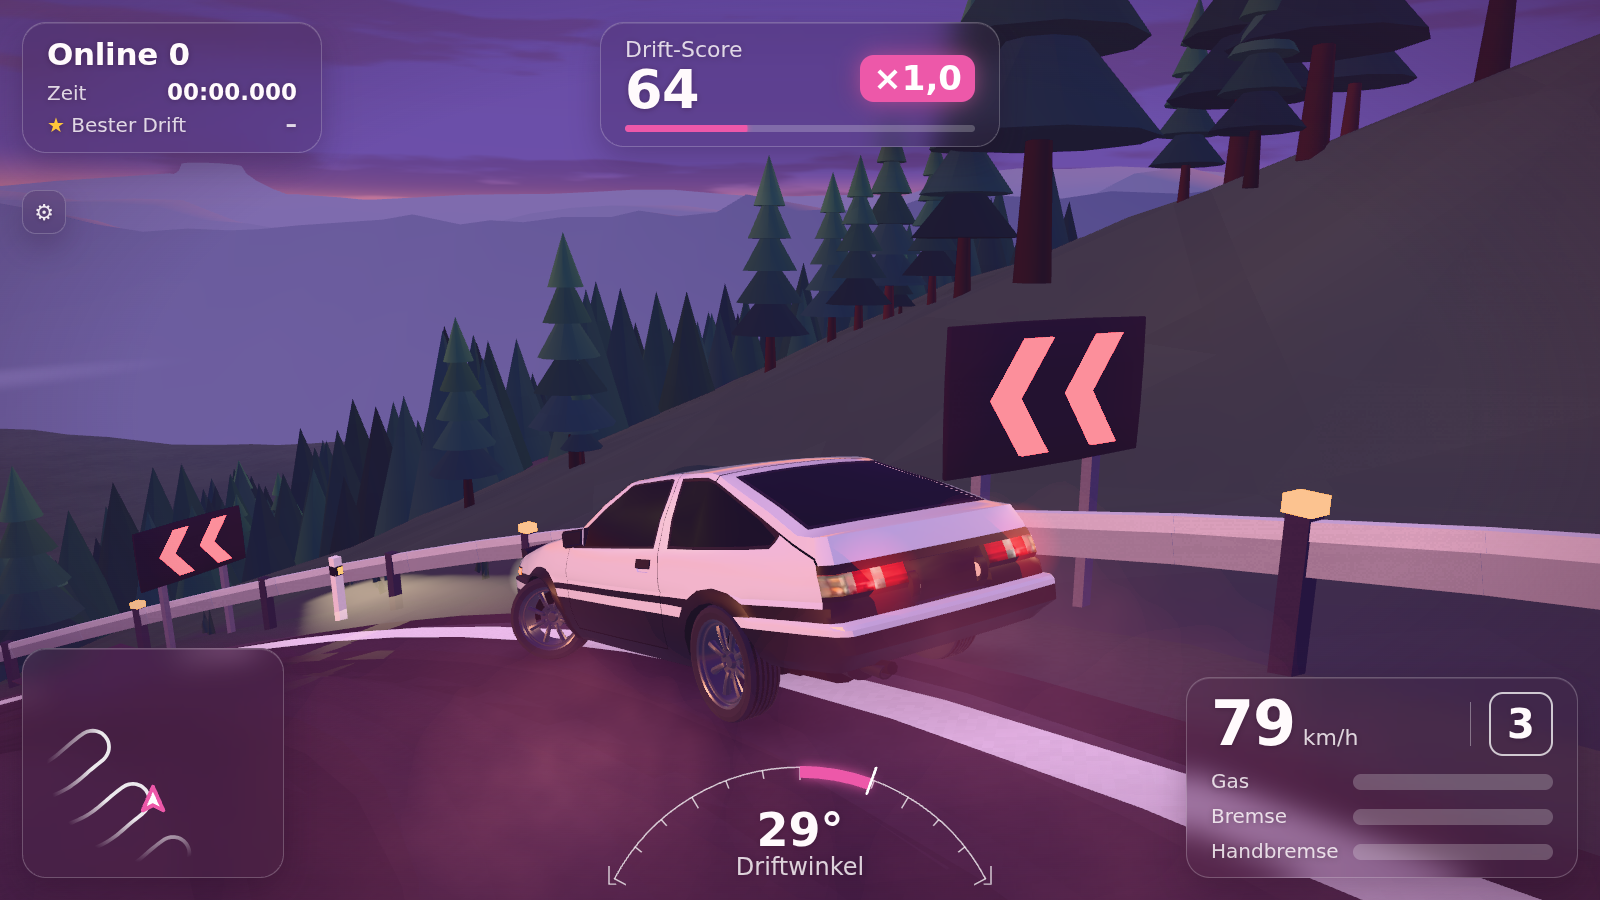
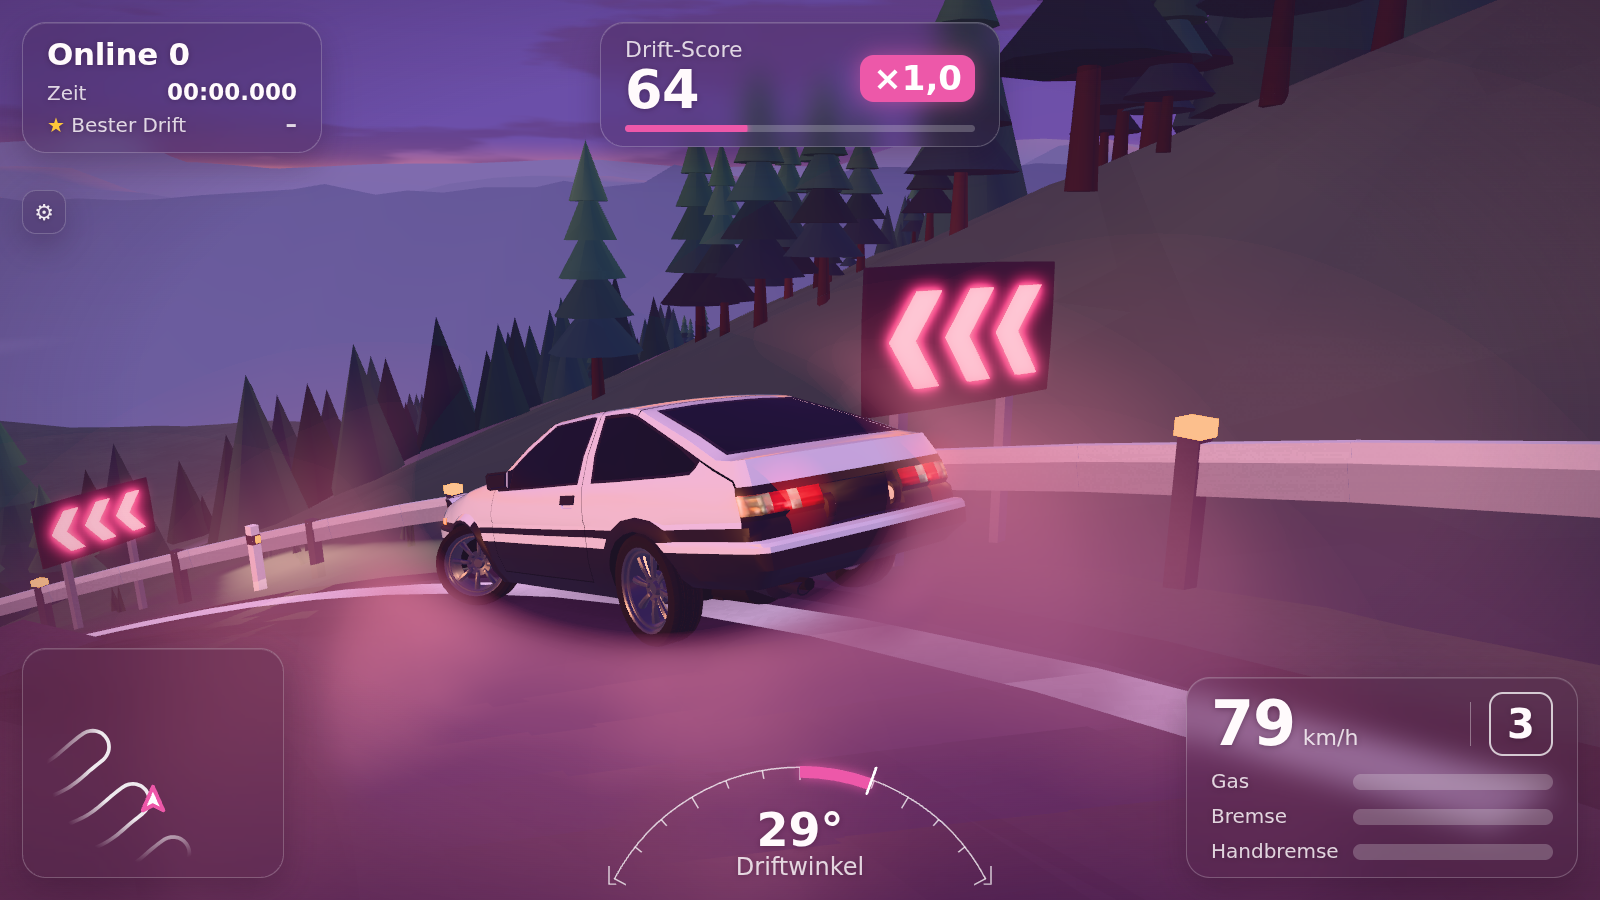
Start view (shot=platz, spawn towards the valley), plaza on the road's start height, camera measured, private-session hint in the HUD, pictures, STATE

diff --git a/game/main.js b/game/main.js
@@ -36,12 +36,12 @@ const params = new URLSearchParams(location.search);
 const de = params.get('lang') ? params.get('lang') === 'de' : navigator.language?.startsWith('de');
 const T = {
   en: { drift: 'DRIFT', score: 'Score', lost: 'Lost!', hand: 'HAND', brake: 'BRAKE', gas: 'GAS', rotate: 'Turn your phone to landscape', tip: 'Hold GAS, steer with the arrows, tap HAND to throw the tail out',
-    online: 'driving here', solo: 'Time trial', newDrift: 'new best drift', tunedMark: 'tuned', run: 'Run finished', sumTime: 'Time', sumPoints: 'Points', sumClips: 'Clipping points', sumBest: 'Best drift', clip: 'CLIP', zone: 'Zone', slip: 'Angle', best: 'Best drift', you: 'You are', race: 'Start a race', invite: '{by} starts a race on {map} ({laps} laps).', join: 'Join', no: 'No', waiting: 'Invitation sent: the race starts in a few seconds.', joined: 'You are in. Get ready.', busy: 'A race is on right now.', pause: 'The next race can start in {s} s.', getReady: 'Get ready', waitOthers: 'Waiting for the others', go: 'GO!', lap: 'Lap', finished: 'Finished', result: 'Result', dnf: 'DNF', newBest: 'new best', leave: 'Leave', backLobby: 'Back to the lobby', dropped: 'You were dropped. Tap to rejoin.', full: 'The world is full right now. Tap to try again.',
+    online: 'driving here', solo: 'Time trial', newDrift: 'new best drift', tunedMark: 'tuned', privateSession: 'Private session', run: 'Run finished', sumTime: 'Time', sumPoints: 'Points', sumClips: 'Clipping points', sumBest: 'Best drift', clip: 'CLIP', zone: 'Zone', slip: 'Angle', best: 'Best drift', you: 'You are', race: 'Start a race', invite: '{by} starts a race on {map} ({laps} laps).', join: 'Join', no: 'No', waiting: 'Invitation sent: the race starts in a few seconds.', joined: 'You are in. Get ready.', busy: 'A race is on right now.', pause: 'The next race can start in {s} s.', getReady: 'Get ready', waitOthers: 'Waiting for the others', go: 'GO!', lap: 'Lap', finished: 'Finished', result: 'Result', dnf: 'DNF', newBest: 'new best', leave: 'Leave', backLobby: 'Back to the lobby', dropped: 'You were dropped. Tap to rejoin.', full: 'The world is full right now. Tap to try again.',
     keysSoft: 'Keyboard: soft (gas and steering build up)', keysDirect: 'Keyboard: direct (all or nothing)', leverOn: 'Mouse throttle lever on (L): wheel or drag up and down; the brake resets it', leverOff: 'Mouse throttle lever off (L)', volume: 'Volume', quality: 'Graphics', camChase: 'Chase camera', camBonnet: 'Bonnet camera', camCockpit: 'Cockpit camera', padOn: 'Controller: stick steers, right trigger gas, left trigger brake, A handbrake, Y camera, X restart', padOff: 'Controller unplugged: paused', creativeOn: 'Creative mode on (K): no scores count, no damage', creativeOff: 'Creative mode off (K)', creativeBanner: 'CREATIVE: scores do not count', creativeChip: 'Creative', damageLabel: 'Damage', damageOn: 'Damage on (V)', damageOff: 'Damage off (V)', soundOn: 'Sound on (M)', soundOff: 'Sound off (M)', musicOff: 'Music: off (placeholder)', musicOn: 'Music: on (placeholder, no music yet)', chLap: 'Set a clean lap in a race or time trial', chDone: 'Challenge finished', chConfirmed: 'confirmed', chFailed: 'ended by a hit', chTitle: 'Challenge',
     feelArcade: 'Arcade', feelPro: 'Pro (fewer aids)', feelKey: 'Feel of driving (X)', tandem: 'Tandem', lead: 'Lead', chase: 'Chase', side: 'Side by side', tandemBank: 'Tandem bonus', practiceBot: 'Practice bot (B)',
     hintKeys: 'Arrows or WASD to drive, Space = handbrake, Shift = brake, R = restart, F = fullscreen' },
   de: { drift: 'DRIFT', score: 'Punkte', lost: 'Verloren!', hand: 'HAND', brake: 'BREMSE', gas: 'GAS', rotate: 'Dreh das Handy ins Querformat', tip: 'GAS halten, mit den Pfeilen lenken, HAND wirft das Heck raus',
-    online: 'fahren hier', solo: 'Zeitfahren', newDrift: 'neuer bester Drift', tunedMark: 'getunt', run: 'Lauf beendet', sumTime: 'Zeit', sumPoints: 'Punkte', sumClips: 'Clipping-Punkte', sumBest: 'Bester Drift', clip: 'CLIP', zone: 'Zone', slip: 'Winkel', best: 'Bester Drift', you: 'Du bist', race: 'Rennen starten', invite: '{by} startet ein Rennen auf {map} ({laps} Runden).', join: 'Mitfahren', no: 'Nein', waiting: 'Einladung verschickt: das Rennen startet in ein paar Sekunden.', joined: 'Du bist dabei. Mach dich bereit.', busy: 'Gerade läuft ein Rennen.', pause: 'Das nächste Rennen geht in {s} s.', getReady: 'Mach dich bereit', waitOthers: 'Warte auf die anderen', go: 'LOS!', lap: 'Runde', finished: 'Im Ziel', result: 'Ergebnis', dnf: 'Ausgeschieden', newBest: 'neue Bestzeit', leave: 'Verlassen', backLobby: 'Zurück zur Lobby', dropped: 'Du wurdest getrennt. Tippen zum Zurückkehren.', full: 'Die Welt ist gerade voll. Tippen zum Erneut-Versuchen.',
+    online: 'fahren hier', solo: 'Zeitfahren', newDrift: 'neuer bester Drift', tunedMark: 'getunt', privateSession: 'Private Runde', run: 'Lauf beendet', sumTime: 'Zeit', sumPoints: 'Punkte', sumClips: 'Clipping-Punkte', sumBest: 'Bester Drift', clip: 'CLIP', zone: 'Zone', slip: 'Winkel', best: 'Bester Drift', you: 'Du bist', race: 'Rennen starten', invite: '{by} startet ein Rennen auf {map} ({laps} Runden).', join: 'Mitfahren', no: 'Nein', waiting: 'Einladung verschickt: das Rennen startet in ein paar Sekunden.', joined: 'Du bist dabei. Mach dich bereit.', busy: 'Gerade läuft ein Rennen.', pause: 'Das nächste Rennen geht in {s} s.', getReady: 'Mach dich bereit', waitOthers: 'Warte auf die anderen', go: 'LOS!', lap: 'Runde', finished: 'Im Ziel', result: 'Ergebnis', dnf: 'Ausgeschieden', newBest: 'neue Bestzeit', leave: 'Verlassen', backLobby: 'Zurück zur Lobby', dropped: 'Du wurdest getrennt. Tippen zum Zurückkehren.', full: 'Die Welt ist gerade voll. Tippen zum Erneut-Versuchen.',
     keysSoft: 'Tastatur: weich (Gas und Lenken bauen sich auf)', keysDirect: 'Tastatur: direkt (alles oder nichts)', leverOn: 'Maus-Gashebel an (L): Rad oder Ziehen nach oben und unten; die Bremse setzt ihn zur\u00fcck', leverOff: 'Maus-Gashebel aus (L)', volume: 'Lautstärke', quality: 'Grafik', camChase: 'Verfolgerkamera', camBonnet: 'Hauben-Kamera', camCockpit: 'Cockpit-Kamera', padOn: 'Controller: Stick lenkt, rechter Trigger Gas, linker Trigger Bremse, A Handbremse, Y Kamera, X Neustart', padOff: 'Controller getrennt: Pause', creativeOn: 'Kreativ-Modus an (K): keine Wertung, kein Schaden', creativeOff: 'Kreativ-Modus aus (K)', creativeBanner: 'KREATIV: nichts davon z\u00e4hlt', creativeChip: 'Kreativ', damageLabel: 'Schaden', damageOn: 'Schaden an (V)', damageOff: 'Schaden aus (V)', soundOn: 'Ton an (M)', soundOff: 'Ton aus (M)', musicOff: 'Musik: aus (Platzhalter)', musicOn: 'Musik: an (Platzhalter, noch keine Musik)', chLap: 'Fahr im Rennen oder Zeitfahren eine saubere Runde', chDone: 'Herausforderung beendet', chConfirmed: 'bestätigt', chFailed: 'durch einen Treffer beendet', chTitle: 'Herausforderung',
     feelArcade: 'Arcade', feelPro: 'Pro (weniger Hilfen)', feelKey: 'Fahrgef\u00fchl (X)', tandem: 'Tandem', lead: 'Vorne', chase: 'Hinterher', side: 'Nebeneinander', tandemBank: 'Tandem-Bonus', practiceBot: '\u00dcbungs-Bot (B)',
     hintKeys: 'Pfeile oder WASD fahren, Leertaste = Handbremse, Shift = Bremse, R = neu starten, F = Vollbild' },
@@ -135,6 +135,7 @@ let dRunStart = -1, runDone = 0;   // a descent (the touge): the run is timed fr
 let onlineCount = 0, meName = '', ownHueIdx = -1, bestDrift = 0, bestLap = 0, lastEvent = null, freeMs = 0;
 const raceInfo = { lap: 1, laps: 1, ms: 0, pos: 1, of: 1 };   // what the server says in a race (the HUD's cards)
 // races, time trials, invitations and challenges are paused (docs/FOCUS.md): the code stays, the UI is hidden unless the address has ?races=1
+const isPrivate = online && (params.has('world') || document.documentElement.dataset.guest === '1');   // a private world (a guest link): the HUD says so
 const raceMode = online && document.documentElement.dataset.race === '1' && params.get('races') === '1';   // the signed-in app: races (the public demo has none)
 const lobbyUrl = params.get('ws') || `${location.protocol === 'https:' ? 'wss' : 'ws'}://${location.host}/ws?car=${carIndex}${glowHue !== null ? '&glow=' + glowHue : ''}`;
 const fmt = (ms) => { const t = Math.max(0, Math.round(ms)); return `${Math.floor(t / 60000)}:${String(Math.floor(t / 1000) % 60).padStart(2, '0')}.${String(Math.floor((t % 1000) / 10)).padStart(2, '0')}`; };
@@ -661,7 +662,7 @@ function frame(now) {
   chShow();
   // the HUD: cards for free driving or the race
   if (!paused) freeMs += dt * 1000;
-  const raceCard = racing ? { ...raceInfo, best: bestLap } : { free: true, online: onlineCount, ms: freeMs, bestDrift, name: meName };
+  const raceCard = racing ? { ...raceInfo, best: bestLap } : { free: true, online: onlineCount, ms: freeMs, bestDrift, name: meName ? (isPrivate ? `${meName} \u00b7 ${T.privateSession}` : meName) : (isPrivate ? T.privateSession : '') };
   hud.update(raceCard, { kmh, forward: Math.sign(vf) || 1, slip: bodySlip(cur), x: X(drawn.x), z: drawn.z, h: drawn.h }, lastInp, { ...score, event: lastEvent },
     net ? net.sample(now).filter((o) => !o.far).map((o) => [X(o.x), o.z]) : [], paused ? 0 : dt);
   lastEvent = null;

diff --git a/game/view/look/world.js b/game/view/look/world.js
@@ -363,6 +363,9 @@ function zones(S, f, scene, look) {
 // ---------------------------------------------------------------- the meeting place: surface, bays, kerb, a rail on the valley side, lamps, benches, its own trees
 function plaza(S, G, f, scene, look, lite, lampHeads) {
   const P = scene.plaza, R = look.road, pts = P.pts;
+  // the plaza is flat at the height of the road where it starts (on a hillside that is not 0): everything of it is drawn on that level
+  const gp = f.groundY(pts[0][0], pts[0][1]);
+  S.push(trs(0, gp, 0, 0, 0, 0)); G.push(trs(0, gp, 0, 0, 0, 0));
   if (P.surface !== false) {
   const tris = THREE.ShapeUtils.triangulateShape(pts.map(([x, z]) => new THREE.Vector2(x, z)), []);
   const pos = [], col = [], base = C(R.plaza), k = new THREE.Color();
@@ -400,6 +403,7 @@ function plaza(S, G, f, scene, look, lite, lampHeads) {
     S.box(2.0, 0.42, 0.07, X(x), 0.75, z + Math.cos(h) * -0.24, C('#8a6a5e'), { r: 0, ry: -h });
     for (const s of [-0.8, 0.8]) S.box(0.08, 0.46, 0.45, X(x + s), 0.23, z, C(look.rail.post), { r: 0, ry: -h });
   }
+  S.pop(); G.pop();
   for (const [x, z, kind] of P.trees ?? []) (kind === 'pine' ? pine : cherry)(S, look, x, f.height(x, z), z, 9 + (x % 3), mulberry32(Math.abs(x * 31 + z)), lite);
 }
 

diff --git a/docs/STATE.md b/docs/STATE.md
@@ -388,3 +388,11 @@ All five milestones of SCOPE are built. Waits for the owner: design and details,
 - **Not done:** a name or a label of the session in the HUD ("private session"), a second private world for the owner without a guest link, the race hub and the tandem tracker are not world-aware (races are paused).
 - **Published 0.5.0 checked locally** (`ghcr.io/juloc/drift:0.5.0` with a throwaway database, two headless browsers, signed in): the AE86 loads with textures (25 of 44 materials carry a map), no console error, both see each other (`docs/screenshots/published-0.5.0-lobby.png`). Not checked: real WebGL on a phone.
 - **Open from the zone scoring:** a multiplier for staying on the line, the zone points and the best run at the server (boards).
+
+## 0.6.0 candidate
+- **Merged on the chief's word:** cars branch to 4e5b3e4 (lamp halos by angle, stronger tyre tread, bonnet in the paint colour), look round 10 (88b2324: moon, orange mirror track in the lake, three-arrow boards). The look branch stood on an old master: one conflict (a picture), my camera values kept.
+- **Camera (touge look):** `dist 5.6, height 1.2, lookY -0.5, turn 8, turnDrift -24, swing 3`. Measured in the fixed shots (box of the car's opaque meshes, wheels included, so a little larger than the body; picture fractions, 800x450 and 1600x900 give the same): tal x 0.25 to 0.63, y 0.39 to 0.71, horizon 0.23; kehre x 0.25 to 0.63, y 0.41 to 0.73, horizon 0.25 (aims: x .25 to .58, y .42 to .68, horizon .26). Not measured: the feel while driving (no jolt at left-right changes, the car at 60 degrees in the picture): `turnDrift` is clamped at 0.6 rad of drift angle, so the view does not turn further beyond it.
+- **Start view:** `lobbySpawn` now looks 0.45 rad towards the valley side, the fixed shot `?shot=platz` shows it (the torii, lanterns, sky and the slope on the left; `docs/screenshots/game-touge-platz.png`, `game-touge-platz-phone.png`). Found on the way: the plaza was drawn at height 0 although the road starts at -0.59 on the hillside, so the car sat 0.6 m in the ground; the plaza (surface, bays, walls, lamps) now stands on the road's start height. The plaza floor itself is dark (look chat: lamp glow, a lighter floor).
+- **Private world key:** the key is the guest link's id (a UUID version 7: 74 random bits after a 48 bit time stamp), not the guest secret (that is hashed and only in the #part of the link); a person who does not know it cannot guess it (at most 60 joins a minute per address) and a miss gives no sign: it lands in the public lobby. The HUD says "Private session" / "Private Runde" next to the name in a private world (a guest, or `?world=`).
+- **Open for the look chat:** the big dark boulder above the board in `shot=tal` is made by the look's `rocks()` (a random boulder on a slope, `tier.rocks`), not by the scene data: it looked floating in the chief's picture; in my tal picture after the merge it is not there as a floating block. The orange light streak across the car side: not seen with the AE86 in my tal pictures.
+- Full run: node 163 (game/ + tests/js 154 + the rest), .NET 234, all green.
